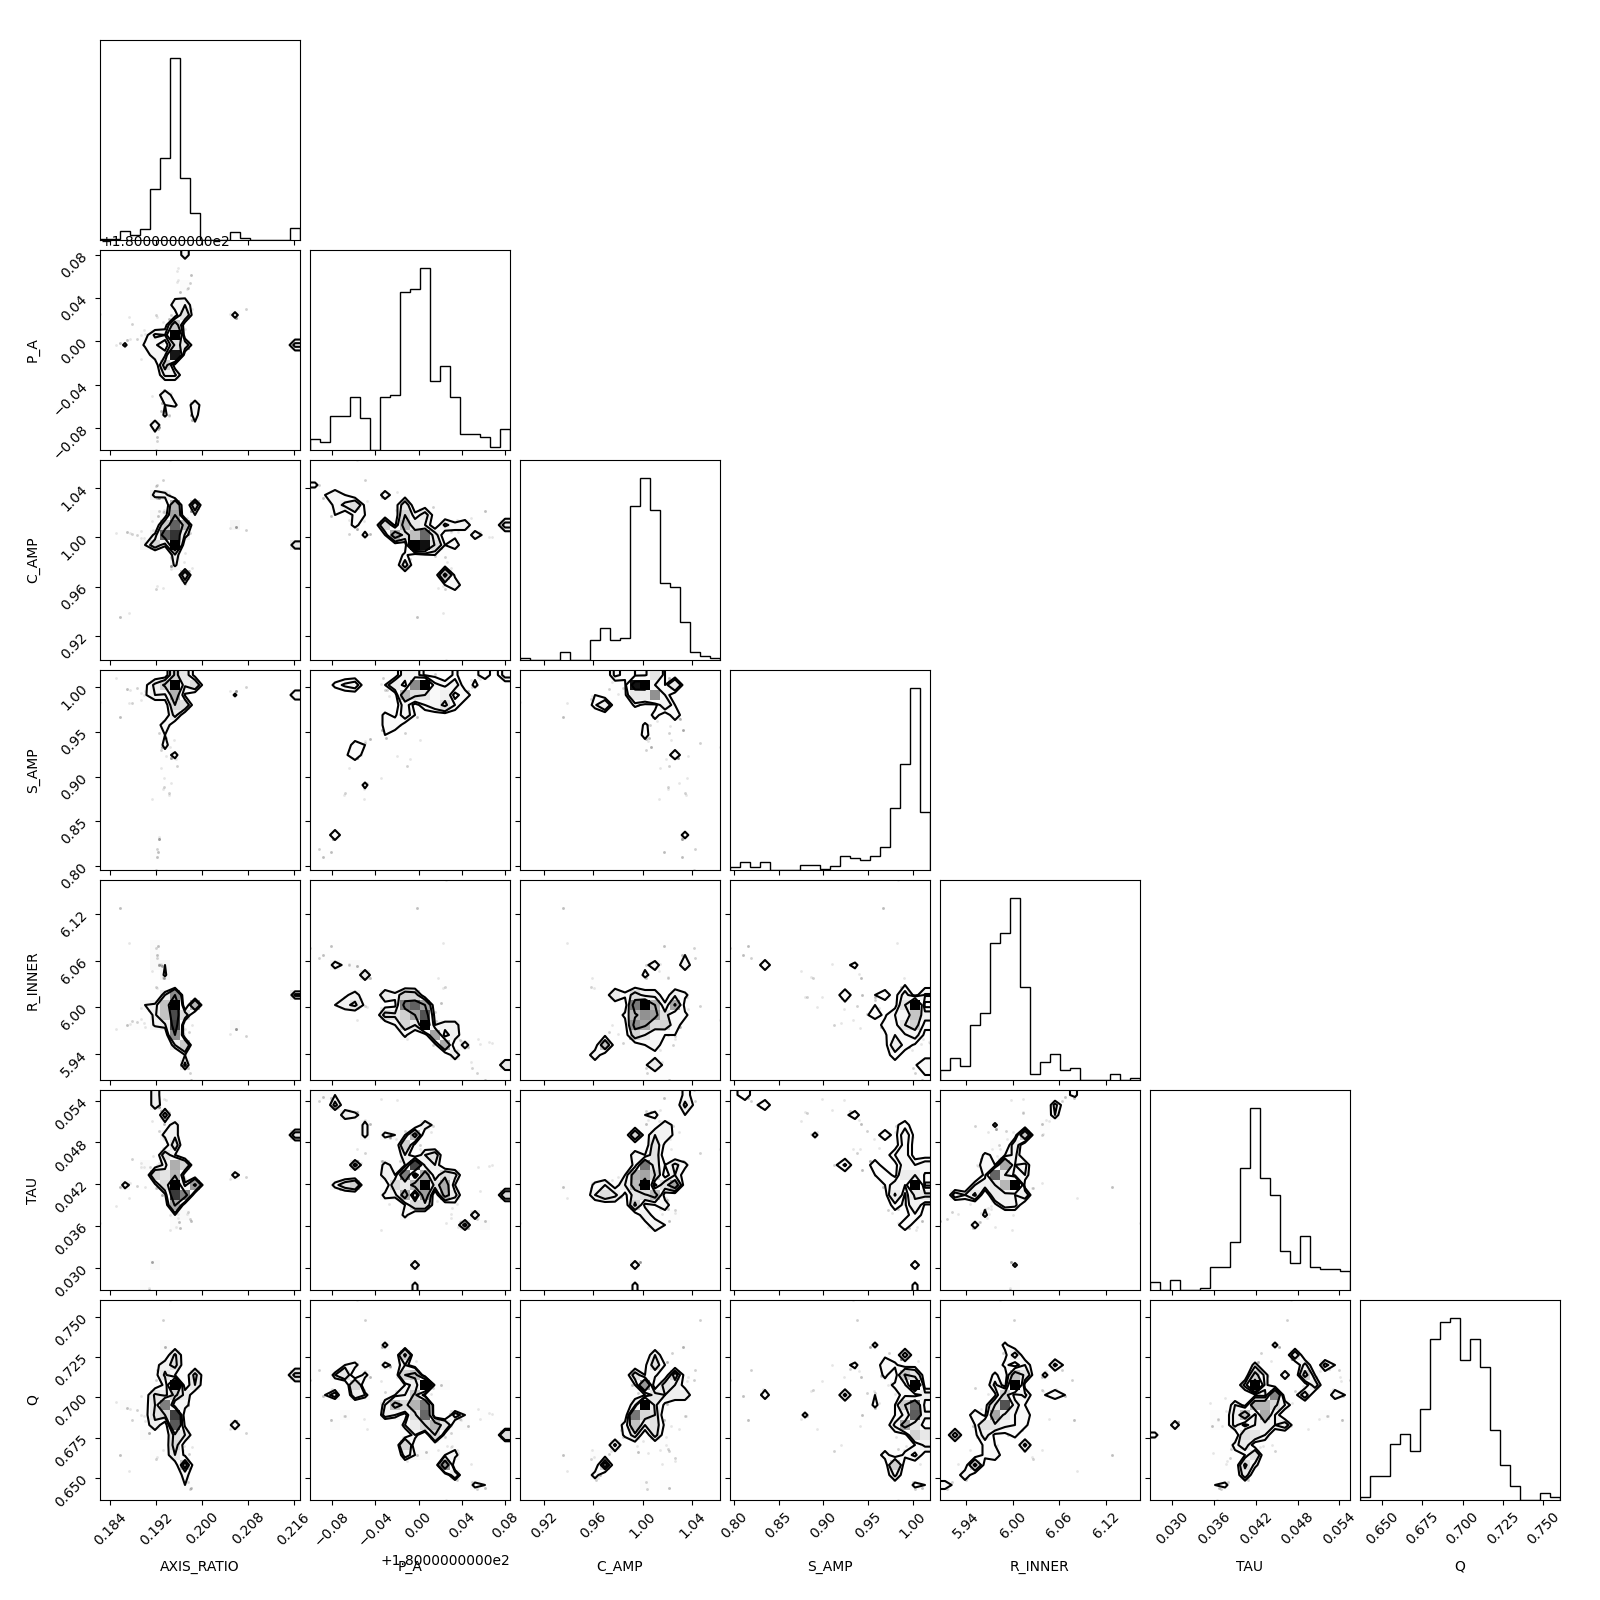
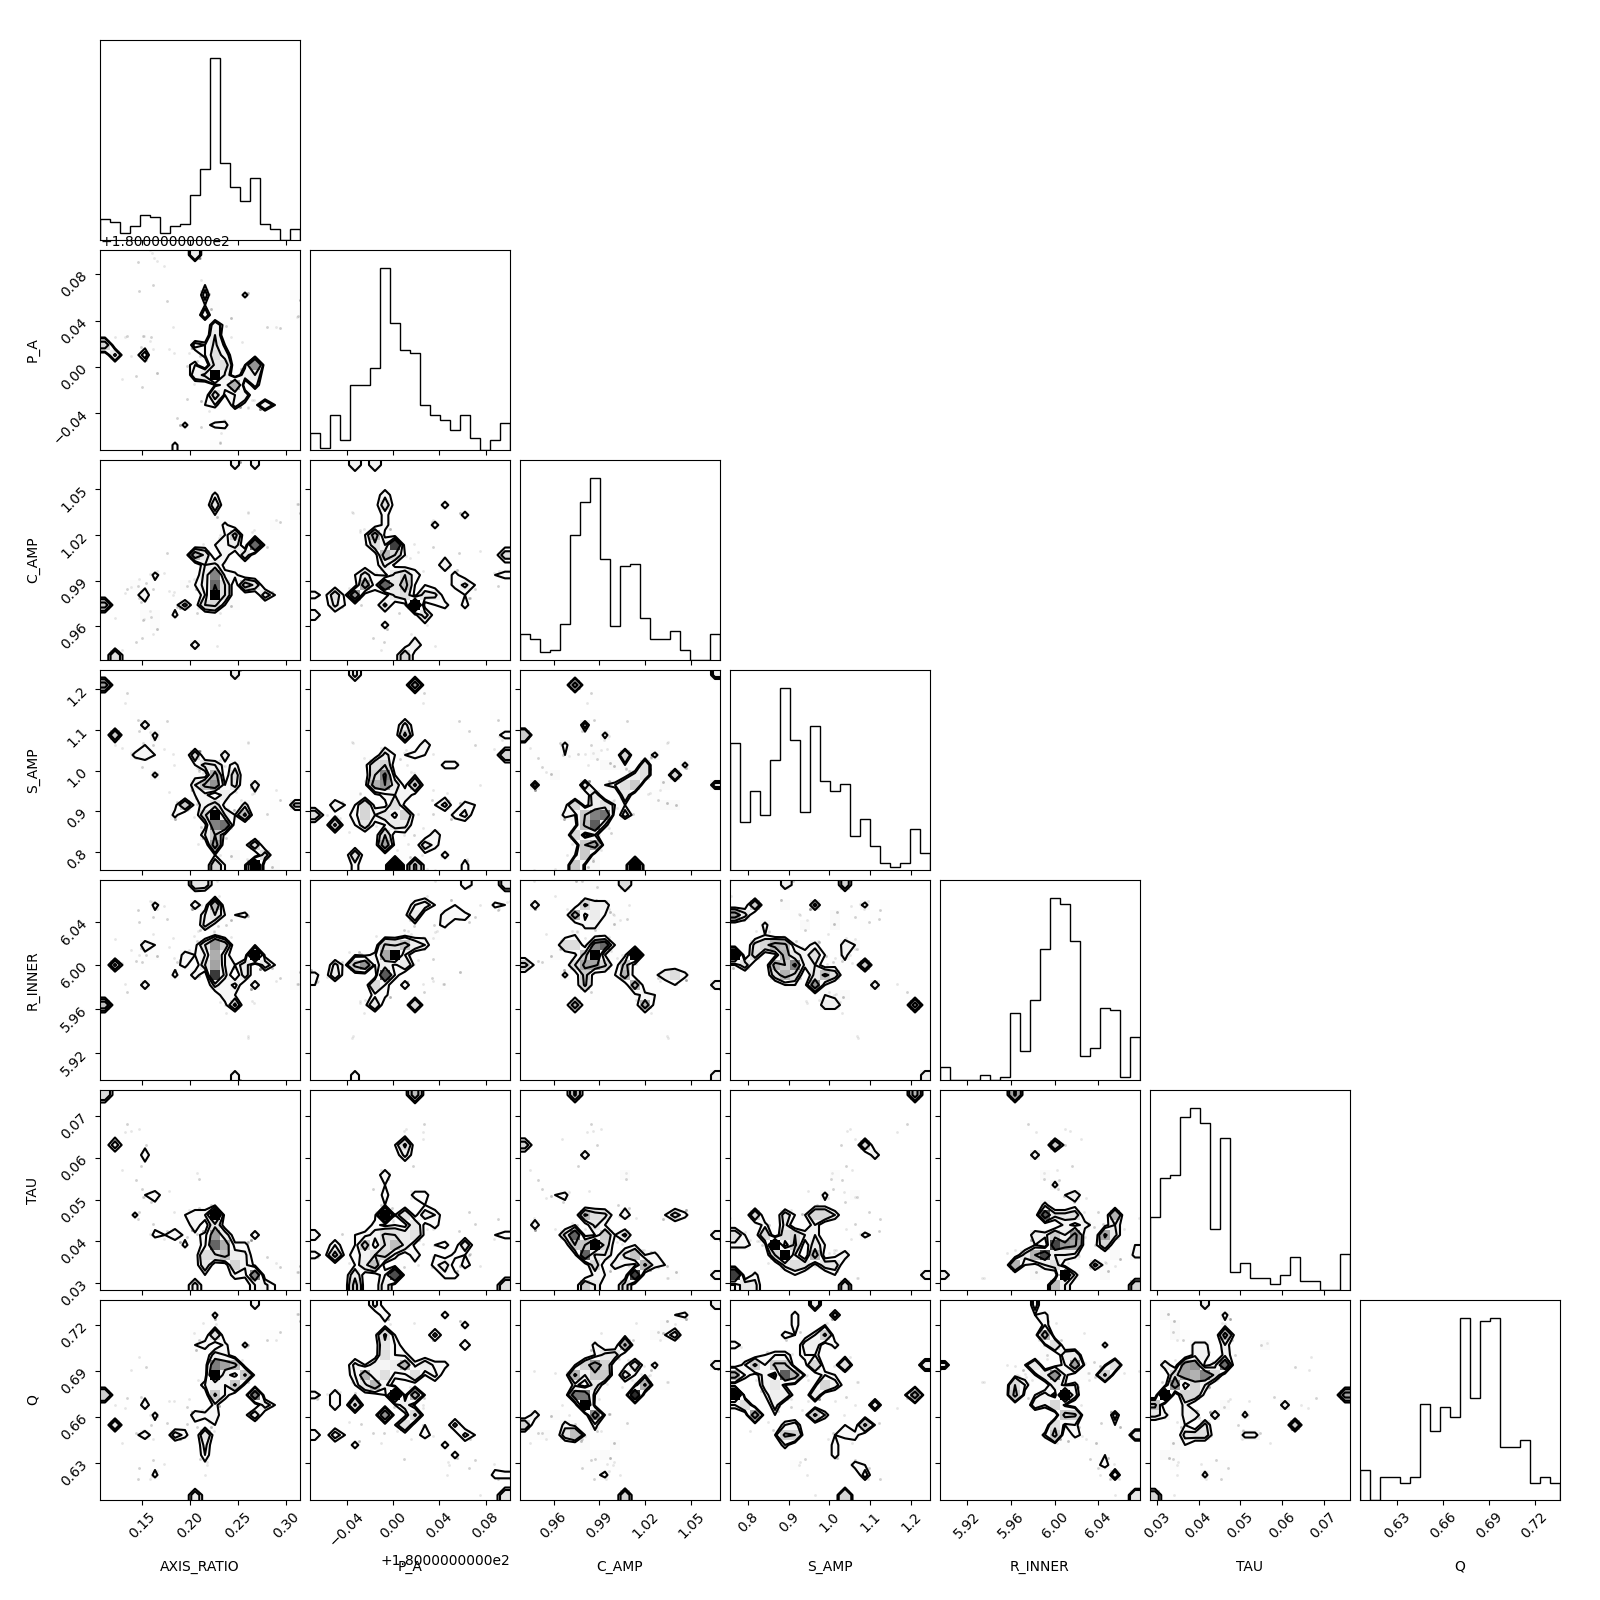
Fix fit
Made fit possible to closure phase with real baselines

diff --git a/ppdmodler/src/functionality/mcmc.py b/ppdmodler/src/functionality/mcmc.py
@@ -74,14 +74,14 @@ def set_data(fits_file: Path, pixel_size: int,
     readout = ReadoutFits(fits_file)
     wavelength = readout.get_wl()
 
-    # TODO: Check how the vis/vis2 data is fetched -> Is it done correctly?
-
     if wl_ind:
         if vis2:
-            data, dataerr = readout.get_vis24wl(wl_ind)
+            vis, viserr = readout.get_vis24wl(wl_ind)
         else:
-            temp_data = readout.get_vis4wl(wl_ind)
-            data, dataerr = [temp_data[0], temp_data[2]], [temp_data[1], temp_data[3]]
+            vis, viserr = readout.get_vis4wl(wl_ind)
+
+        cphase, cphaseerr = readout.get_t3phi4wl(wl_ind)
+
 
         if flux_file:
             flux = read_single_dish_txt2np(flux_file, wavelength)[wavelength[wl_ind]]
@@ -91,10 +91,11 @@ def set_data(fits_file: Path, pixel_size: int,
         wavelength = wavelength[wl_ind]
     else:
         if vis2:
-            data, dataerr = readout.get_vis2()
+            vis, viserr = readout.get_vis2()
         else:
-            temp_data = readout.get_vis()
-            data, dataerr = [temp_data[0], temp_data[2]], [temp_data[1], temp_data[3]]
+            vis, viserr = readout.get_vis()
+
+        cphase, cphaseerr = readout.get_t3phi()
 
         if flux_file:
             flux = read_single_dish_txt2np(flux_file, wavelength)
@@ -103,9 +104,11 @@ def set_data(fits_file: Path, pixel_size: int,
 
     uvcoords = readout.get_uvcoords()
     u, v = readout.get_split_uvcoords()
+    t3phi_baselines = readout.get_t3phi_uvcoords()
+    data = (vis, viserr, cphase, cphaseerr)
 
-    return (data, dataerr, pixel_size, sampling,
-            wavelength, uvcoords, flux, u, v, zero_padding_order)
+    return (data, pixel_size, sampling, wavelength, uvcoords, flux,
+            u, v, zero_padding_order, t3phi_baselines)
 
 def set_mc_params(initial: np.ndarray, nwalkers: int,
                   niter_burn: int, niter: int) -> List:
@@ -141,35 +144,39 @@ class MCMC:
                  numerical: bool = True, vis: bool = False,
                  modulation: bool = False, bb_params: List = None,
                  out_path: Path = None) -> None:
-        self.data = data[:-4]
         self.priors, self.labels = priors, labels
         self.bb_params = bb_params
 
         self.p0, self.nw, self.nd, self.nib, self.ni = mc_params
-        self.numerical, self.vis = numerical, vis
-        self.vis2 = not self.vis
+        self.numerical, self.vis, self.vis2 = numerical, vis, not vis
         self.modulation = modulation
         self.fr_scaling = 0
 
-        self.realdata, self.realerr, self.pixel_size,\
-                self.sampling, self.wavelength, self.uvcoords,\
-                self.realflux, self.u, self.v, self.zero_padding_order = data
+        self.data, self.pixel_size, self.sampling,self.wavelength,\
+                self.uvcoords, self.realflux, self.u, self.v,\
+                self.zero_padding_order, self.t3phi_uvcoords = data
+
+        self.realdata, self.realdataerr,\
+                self.realcphase, self.realcphaserr = self.data
 
         self.model = model(*self.bb_params, self.wavelength)
 
-        if self.vis:
-            self.datamod = None
-            self.realdata, self.realphase = self.realdata
-            self.realdataerr, self.realphaserr = self.realerr
+        self.realdata = np.insert(self.realdata, 0, self.realflux)
+        self.realdataerr = np.insert(self.realdataerr, 0, np.mean(self.realdataerr))
 
-        self.theta_max = None
-        self.x, self.y = 0, 0
+        self.sigma2corrflux = self.realdataerr**2
+        self.sigma2cphase = self.realcphaserr**2
+
+        self.realbaselines = np.insert(np.sqrt(self.u**2+self.v**2), 0, 0.)
+        self.u_t3phi, self.v_t3phi = self.t3phi_uvcoords
+        self.t3phi_baselines = np.sqrt(self.u_t3phi**2+self.v_t3phi**2)
+        print(self.t3phi_baselines)
 
         self.out_path = out_path
 
-    @property
-    def xycoords(self):
-        return [i for i in zip(self.xcoord, self.ycoord)]
+    # @property
+    # def xycoords(self):
+    #     return [i for i in zip(self.xcoord, self.ycoord)]
 
     def pipeline(self) -> None:
         sampler, pos, prob, state = self.do_fit()
@@ -189,7 +196,7 @@ class MCMC:
         # The EnsambleSampler gets the parameters. The args are the args put into the
         # lob_prob function. Additional parameter a can be used for the stepsize. None is
         # the default
-        sampler = emcee.EnsembleSampler(self.nw, self.nd, self.lnprob, args=self.data)
+        sampler = emcee.EnsembleSampler(self.nw, self.nd, self.lnprob)
 
         # Burn-in of the sampler. Explores the parameter space. The walkers get settled
         # into the maximum of the density. Saves the walkers in the state variable
@@ -208,8 +215,7 @@ class MCMC:
 
         return sampler, pos, prob, state
 
-    def lnprob(self, theta: np.ndarray, realdata, realerr, pixel_size, sampling,
-               wavelength, uvcoords) -> np.ndarray:
+    def lnprob(self, theta: np.ndarray) -> np.ndarray:
         """This function runs the lnprior and checks if it returned -np.inf, and
         returns if it does. If not, (all priors are good) it returns the inlike for
         that model (convention is lnprior + lnlike)
@@ -227,28 +233,19 @@ class MCMC:
         if not np.isfinite(lp):
             return -np.inf
 
-        return lp + self.lnlike(theta, realdata, realerr, sampling, wavelength, uvcoords)
+        return lp + self.lnlike(theta)
 
-    def lnlike(self, theta: np.ndarray, realdata: np.ndarray, realerr:
-               np.ndarray, sampling, wavelength, uvcoords):
+    def lnlike(self, theta: np.ndarray):
         """Takes theta vector and the x, y and the yerr of the theta.
         Returns a number corresponding to how good of a fit the model is to your
         data for a given set of parameters, weighted by the data points.  That it is more important"""
         tau, q = theta[-2:]
-        datamod, phasemod = self.model4fit_numerical(tau, q, theta[:-2], sampling, wavelength, uvcoords)
+        datamod, cphasemod = self.model4fit_numerical(tau, q, theta[:-2])
         tot_flux = self.model.get_total_flux(tau, q)
         datamod = np.insert(datamod, 0, tot_flux)
 
-        realdata, realphase = realdata
-        realdataerr, realphaseerr = realerr
-        realdata = np.insert(realdata, 0, self.realflux)
-        realdataerr = np.insert(realdataerr, 0, np.mean(realdataerr))
-
-        self.sigma2corrflux = realdataerr**2
-        self.sigma2cphase = realphaseerr**2
-
-        data_chi_sq = np.sum((realdata-datamod)**2/self.sigma2corrflux)
-        phase_chi_sq = np.sum((realphase-phasemod)**2/self.sigma2cphase)
+        data_chi_sq = np.sum((self.realdata-datamod)**2/self.sigma2corrflux)
+        phase_chi_sq = np.sum((self.realcphase-cphasemod)**2/self.sigma2cphase)
         whole_chi_sq = data_chi_sq + phase_chi_sq
 
         return -0.5*whole_chi_sq
@@ -283,15 +280,14 @@ class MCMC:
         else:
             return -np.inf
 
-    def model4fit_numerical(self, tau, q, theta: np.ndarray, sampling, wavelength,
-                            uvcoords) -> np.ndarray:
+    def model4fit_numerical(self, tau, q, theta: np.ndarray) -> np.ndarray:
         """The model image, that is fourier transformed for the fitting process"""
-        model_img = self.model.eval_model(theta, self.pixel_size, sampling)
+        model_img = self.model.eval_model(theta, self.pixel_size, self.sampling)
         model_flux = self.model.get_flux(tau, q)
 
-        fft = FFT(model_flux, wavelength, self.model.pixel_scale,
+        fft = FFT(model_flux, self.wavelength, self.model.pixel_scale,
                  self.zero_padding_order)
-        amp, phase = fft.interpolate_uv2fft2(uvcoords, True)
+        amp, phase = fft.interpolate_uv2fft2(self.uvcoords, self.t3phi_uvcoords, True)
 
         # TODO: Use this as a test for the interpolation
         # rescaling of the uv-coords to the corresponding image size
@@ -314,28 +310,27 @@ class MCMC:
         fig, (ax, bx, cx) = plt.subplots(1, 3, figsize=(20, 10))
 
         tau, q = self.theta_max[-2:]
+        self.sampling, self.wavelength = sampling, wavelength
 
-        datamod, cphase = self.model4fit_numerical(tau, q, self.theta_max[:-2],
-                                                      sampling, wavelength,
-                                                      self.uvcoords)
-        self.datamod, self.cphasemod = datamod, cphase
+        datamod, cphasemod = self.model4fit_numerical(tau, q, self.theta_max[:-2])
+        self.datamod, self.cphasemod = datamod, cphasemod
         model_img = self.model.eval_model(self.theta_max[:-2],
                                                self.pixel_size, sampling)
         self.total_flux_fit = self.model.get_total_flux(tau, q)
         self.datamod = np.insert(self.datamod, 0, self.total_flux_fit)
 
         model_flux = self.model.get_flux(tau, q)
-        self.realdata = np.insert(self.realdata, 0, self.realflux)
-        self.realdataerr = np.insert(self.realdataerr, 0, np.mean(self.realdataerr))
-
-        self.realbaselines = np.sqrt(self.u**2+self.v**2)
-        self.realbaselines = np.insert(self.realbaselines, 0, 0.)
 
         # Correspond the best fit to the uv coords
         print("Best fit corr. fluxes:")
         print(datamod)
         print("Real corr. fluxes")
         print(self.realdata[1:])
+        print("--------------------------------------------------------------")
+        print("Best fit cphase")
+        print(cphasemod)
+        print("Real cphase")
+        print(self.realcphase)
         print("--------------------------------------------------------------")
         print("Real flux:", self.realflux, "- Best fit flux:", self.total_flux_fit)
         print("--------------------------------------------------------------")
@@ -363,31 +358,12 @@ class MCMC:
         bx.set_xlabel("Baselines [m]")
         bx.legend(loc="upper right")
 
-        cx.errorbar(self.realbaselines[1:], self.realphase, self.realphaserr,
+        cx.errorbar(self.t3phi_baselines, self.realcphase, self.realcphaserr,
                     color="goldenrod", fmt='o', label="Real data")
-        cx.scatter(self.realbaselines[1:], self.cphasemod, label="Fit data")
+        cx.scatter(self.t3phi_baselines, self.cphasemod, label="Fit data")
         cx.set_title(fr"Closure Phases [$^\circ$]")
         cx.set_xlabel("Baselines [m]")
         cx.legend(loc="upper right")
-        # bx.plot(xvis_curve, yvis_curve)
-        # bx.set_xlabel(r"$B_p$ [m]")
-
-        # if self.vis:
-        #     bx.set_ylabel("vis/corr_flux [Jy]")
-        # else:
-        #     bx.set_ylabel("vis2")
-
-        # third_max = len(best_fit_model)//2 - 3
-
-        # cx.imshow(best_fit_model, vmax=best_fit_model[third_max, third_max],\
-        #           extent=[self.pixel_size//2, -self.pixel_size//2,\
-        #                   -self.pixel_size//2, self.pixel_size//2])
-
-
-        # cx.scatter(self.u/self.fr_scaling, self.v/self.fr_scaling)
-        # cx.set_title(fr"{self.model.name}: Correlated fluxes,  at {wavelength}$\mu$m")
-        # cx.set_xlabel(f"[mas]")
-        # cx.set_ylabel(f"[mas]")
         save_path = f"{self.model.name}_model_after_fit_{wavelength*1e6:.2f}.png"
 
         if self.out_path is None:
@@ -447,7 +423,7 @@ if __name__ == "__main__":
     # work
     # Initial sets the theta
     initial = np.array([0.2, 180, 1., 1., 6.,  0.05, 0.7])
-    priors = [[0.1, 1.], [0, 360], [0.75, 1.25], [0.75, 1.25], [3., 10.], [0., 1.], [0.6, 0.8]]
+    priors = [[0., 1.], [0, 360], [0., 2.], [0., 2.], [1., 20.], [0., 1.], [0., 1.]]
     labels = ["AXIS_RATIO", "P_A", "C_AMP", "S_AMP", "R_INNER", "TAU", "Q"]
     bb_params = [1500, 7900, 19, 140]
 
@@ -458,10 +434,10 @@ if __name__ == "__main__":
 
     # Set the data, the wavelength has to be the fourth argument [3]
     data = set_data(fits_file=f, flux_file=flux_file, pixel_size=100,
-                    sampling=129, wl_ind=100, zero_padding_order=3)
+                    sampling=257, wl_ind=30, zero_padding_order=2)
 
     # Set the mcmc parameters and the data to be fitted.
-    mc_params = set_mc_params(initial=initial, nwalkers=20, niter_burn=20,
+    mc_params = set_mc_params(initial=initial, nwalkers=500, niter_burn=20,
                               niter=20)
 
     # This calls the MCMC fitting

diff --git a/ppdmodler/src/functionality/fourier.py b/ppdmodler/src/functionality/fourier.py
@@ -141,13 +141,16 @@ class FFT:
         return padded_image
 
     def interpolate_uv2fft2(self, uvcoords: np.ndarray,
+                            uvcoords_cphase: np.ndarray,
                             corr_flux: bool = False) -> np.ndarray:
         """Interpolate the uvcoordinates to the grid of the FFT
 
         Parameters
         ----------
         uvcoords: np.ndarray
-            The uv-coords
+            The uv-coords for the correlated fluxes
+        uvcoords_cphase: np.ndarray
+            The uv-coords for the closure phases
         corr_flux: bool
             If the input image is a temperature gradient model then set this to
             'True' and the output will be the correlated fluxes
@@ -158,15 +161,22 @@ class FFT:
             The interpolated FFT
         """
         grid = (self.fftaxis_m, self.fftaxis_m)
-        real = interpn(grid, np.real(self.ft), uvcoords, method='linear',
+        real_corr = interpn(grid, np.real(self.ft), uvcoords, method='linear',
                                  bounds_error=False, fill_value=None)
-        imag = interpn(grid, np.imag(self.ft), uvcoords, method='linear',
+        imag_corr = interpn(grid, np.imag(self.ft), uvcoords, method='linear',
                                  bounds_error=False, fill_value=None)
-        ft_intp = real+1j*imag
+        ft_intp_corr = real_corr+1j*imag_corr
+
+        real_phase = interpn(grid, np.real(self.ft), uvcoords_cphase, method='linear',
+                                 bounds_error=False, fill_value=None)
+        imag_phase = interpn(grid, np.imag(self.ft), uvcoords_cphase, method='linear',
+                                 bounds_error=False, fill_value=None)
+
+        ft_intp_phase = real_phase+1j*imag_phase
 
         if corr_flux:
-            return np.abs(ft_intp), np.angle(ft_intp, deg=True)
-        return np.abs(ft_intp)/np.abs(self.ft_center), np.angle(ft_intp, deg=True)
+            return np.abs(ft_intp_corr), np.angle(ft_intp_phase, deg=True)
+        return np.abs(ft_intp_corr)/np.abs(self.ft_center), np.angle(ft_intp_phase, deg=True)
 
     def get_amp_phase(self, corr_flux: bool = False) -> [np.ndarray, np.ndarray]:
         """Gets the amplitude and the phase of the FFT

diff --git a/ppdmodler/src/functionality/readout.py b/ppdmodler/src/functionality/readout.py
@@ -69,6 +69,20 @@ class ReadoutFits:
         uvcoords = self.get_uvcoords()
         return np.array([item[0] for item in uvcoords]), np.array([item[1] for item in uvcoords])
 
+    def get_t3phi_uvcoords(self):
+        """Fetches the (u1, v1), (u2, v2) coordinate tuples and then calculates
+        the corresponding baselines
+
+        Returns
+        -------
+        u: np.ndarray
+        v: np.ndarray
+        """
+        u1, v1 = self.get_data("oi_t3", "u1coord", "v1coord")
+        u2, v2 = self.get_data("oi_t3", "u2coord", "v2coord")
+        u3, v3 = -(u1+u2), -(v1+v2)
+        return (u3, v3)
+
     def get_baselines(self):
         """Calculates the baselines from the uv coordinates"""
         u, v = self.get_split_uvcoords()
@@ -116,7 +130,7 @@ class ReadoutFits:
 
         return visamp4wl, visamperr4wl
 
-    def t3phi4wl(self, wl_ind: int) -> np.ndarray:
+    def get_t3phi4wl(self, wl_ind: int) -> np.ndarray:
         """Fetches the closure phases for one specific wavelength
 
         Returns
@@ -148,6 +162,7 @@ class ReadoutFits:
 
 
 if __name__ == "__main__":
-    readout = ReadoutFits("/Users/scheuck/Documents/PhD/matisse_stuff/assets/GTO/hd142666/UTs/nband/TAR-CAL.mat_cal_estimates.2019-05-14T05_28_03.AQUARIUS.2019-05-14T06_12_59.rb/averaged/Final_CAL.fits")
-    print(readout.get_t3phi())
-
+    path = "/Users/scheuck/Documents/PhD/matisse_stuff/assets/GTO/hd142666/UTs/nband/TAR-CAL.mat_cal_estimates.2019-05-14T05_28_03.AQUARIUS.2019-05-14T06_12_59.rb/averaged/Final_CAL.fits"
+    readout = ReadoutFits(path)
+    u, v = readout.get_t3phi_uvcoords()
+    print(np.sqrt(u**2+v**2))
